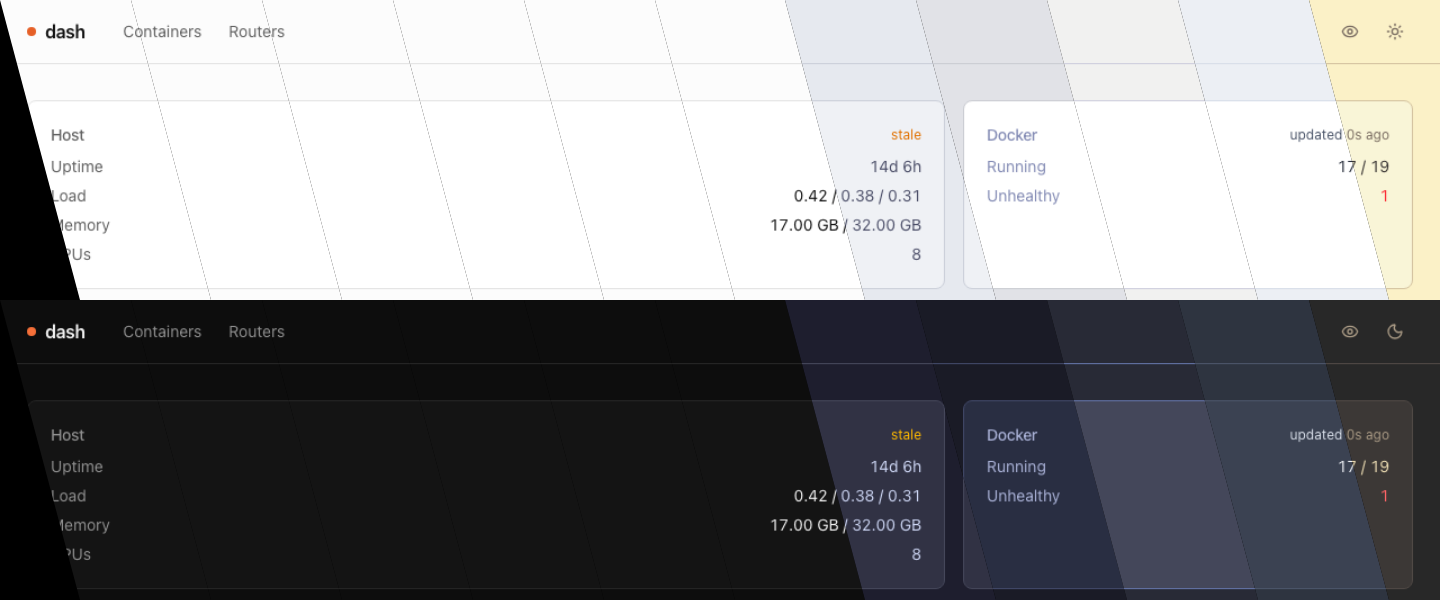
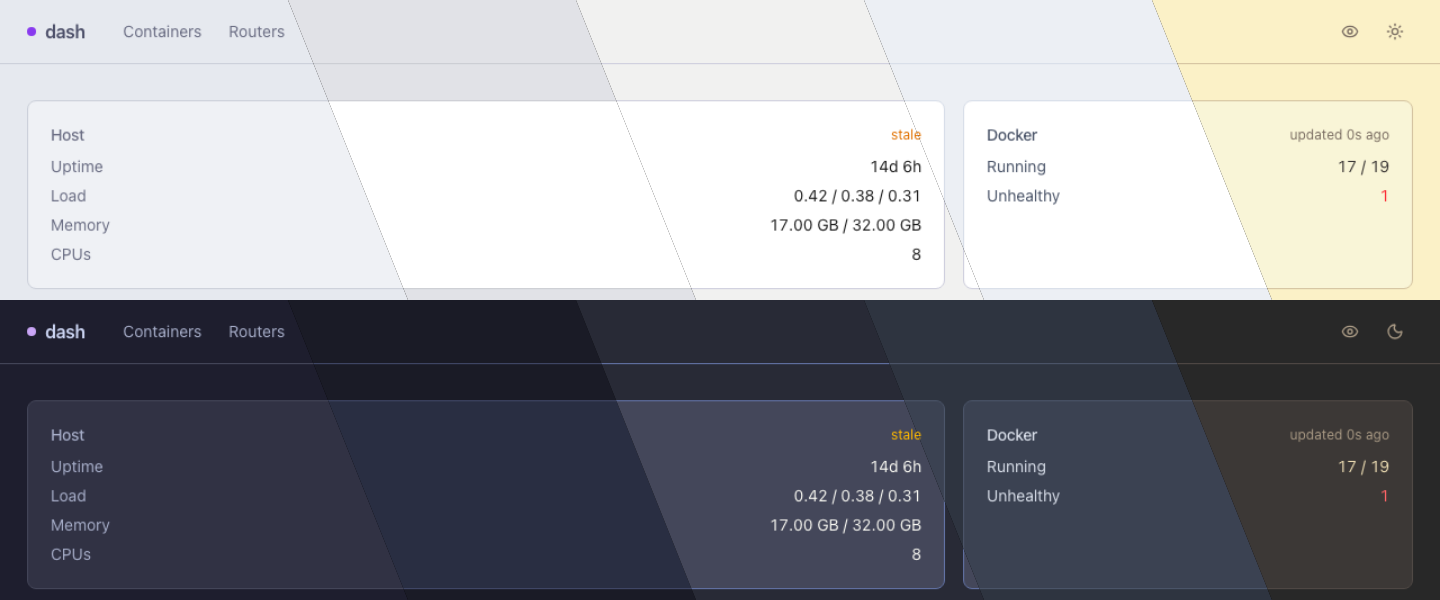
docs: fix composite gap and limit diagonal preview to full-palette presets

diff --git a/e2e/docs-images.spec.ts b/e2e/docs-images.spec.ts
@@ -17,7 +17,6 @@ const PRESETS = [
 
 type Preset = (typeof PRESETS)[number];
 
-const N = PRESETS.length;
 const MEM_TOTAL = 32 * 1024 * 1024 * 1024;
 
 function buildSamples(now: number) {
@@ -136,21 +135,30 @@ for (const preset of PRESETS) {
   }
 }
 
+// Full-palette presets only for the composite — accent-only presets look too similar.
+const COMPOSITE_PRESETS = [
+  "catppuccin",
+  "tokyo-night",
+  "dracula",
+  "nord",
+  "gruvbox",
+] as const satisfies readonly Preset[];
+const NC = COMPOSITE_PRESETS.length;
+
 // Single composite: diagonal strips, light on top half, dark on bottom half.
-// Each theme i occupies a forward-slash "/" angled parallelogram strip.
-// Out-of-bounds polygon vertices are clipped by the browser to the element edge,
-// so no gap-filling or special-casing is needed for the first/last strips.
+// First strip's bottom-left is clamped to 0, last strip's bottom-right to W,
+// so the canvas is fully covered with no corner gaps.
 test("compose themes-preview diagonal", async ({ page }) => {
   const W = 1440;
   const H = 300; // height of each section (light / dark)
-  const D = 80; // horizontal drift (px) from top to bottom of each strip
-  const step = W / N;
+  const D = 120; // horizontal drift (px) from top to bottom of each strip
+  const step = W / NC;
 
   function clip(i: number): string {
     const x0t = Math.round(i * step);
     const x1t = Math.round((i + 1) * step);
-    const x0b = Math.round(i * step + D);
-    const x1b = Math.round((i + 1) * step + D);
+    const x0b = i === 0 ? 0 : Math.round(i * step + D);
+    const x1b = i === NC - 1 ? W : Math.round((i + 1) * step + D);
     return `polygon(${x0t}px 0,${x1t}px 0,${x1b}px ${H}px,${x0b}px ${H}px)`;
   }
 
@@ -158,7 +166,7 @@ test("compose themes-preview diagonal", async ({ page }) => {
     `position:absolute;top:${top}px;left:0;width:${W}px;height:${H}px;` +
     `object-fit:cover;object-position:top left;clip-path:${c}`;
 
-  const imgs = PRESETS.flatMap((preset, i) => {
+  const imgs = COMPOSITE_PRESETS.flatMap((preset, i) => {
     const c = clip(i);
     const lb64 = readFileSync(`${VIEWPORT_DIR}/${preset}-light.png`).toString(
       "base64",